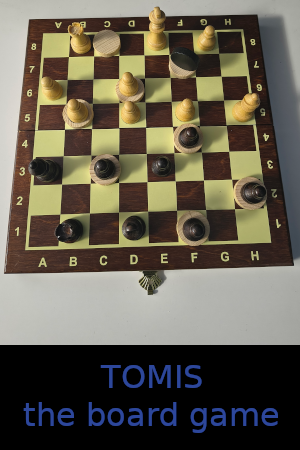
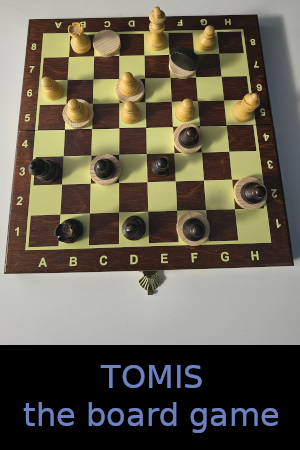
Update Nerva manual and tomis_library

Changed region(s): [[0.06, 0.8089, 0.69, 0.9644], [0.63, 0.9022, 0.93, 0.9644]]

diff --git a/NervaBoardGameManual.md b/NervaBoardGameManual.md
@@ -3,8 +3,6 @@
 <br>
 ## Nerva manual<br><br>
 
-# Nerva
-
 by Afrasinei Alexandru Iulian
 
 ## Introduction
@@ -177,6 +175,12 @@ When a player places a pawn on the king position the king will be revealed.
 
 The player will place his king on the board.
 
+In the unlikely event of both player chosing the same king location:
+
+* place the white king in the location when revealed
+
+* play normally as if both kings are in that location 
+
 Example:
 
 ![Revealed Kings](imgs/NervaBoard400Kings.png)
@@ -229,7 +233,10 @@ There is no addition of existing points, so be careful with this.
 
 Example:
 
-c3_1 c3_2 c3_3
+![Stacks](imgs/NervaBoard400Stacks.png)
+
+* Notation
+1. f4_1 2. e5_1 3. f4_2 4. e5_2 5. f4_3 6. e5_3
 
 ## Goal 
 
@@ -243,7 +250,4 @@ Email:
 
 [email redacted]
 
-GitHub website:
-
-https://github.com/aiafrasinei/Nerva
 